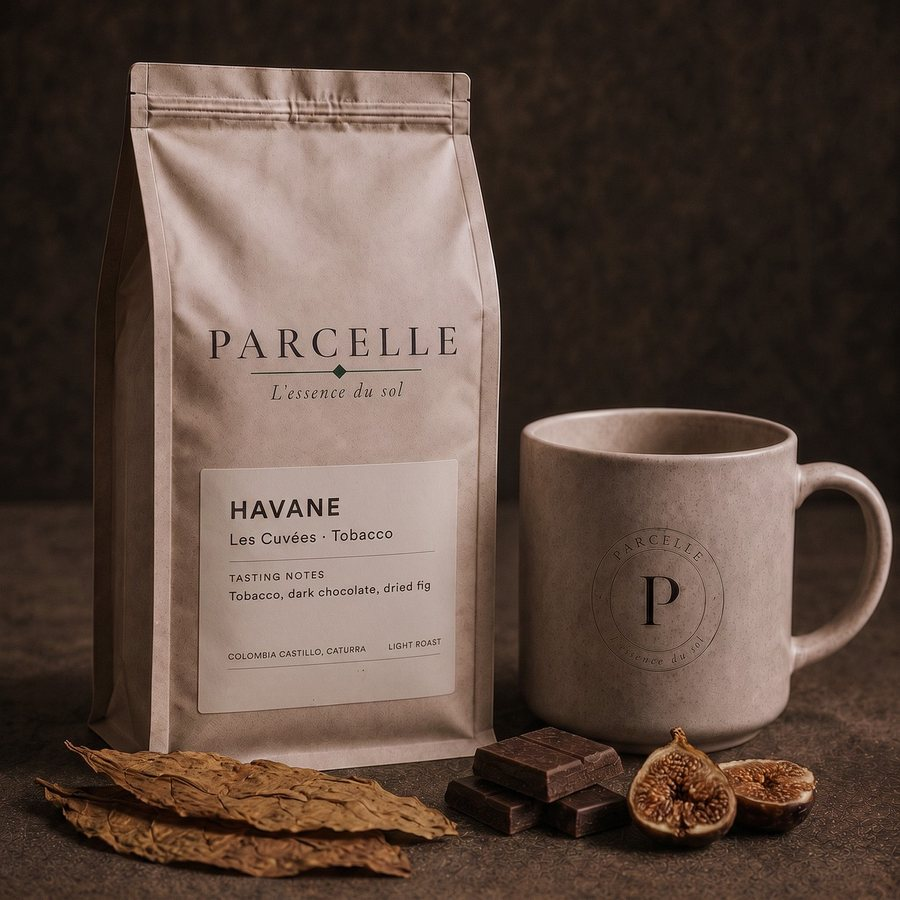
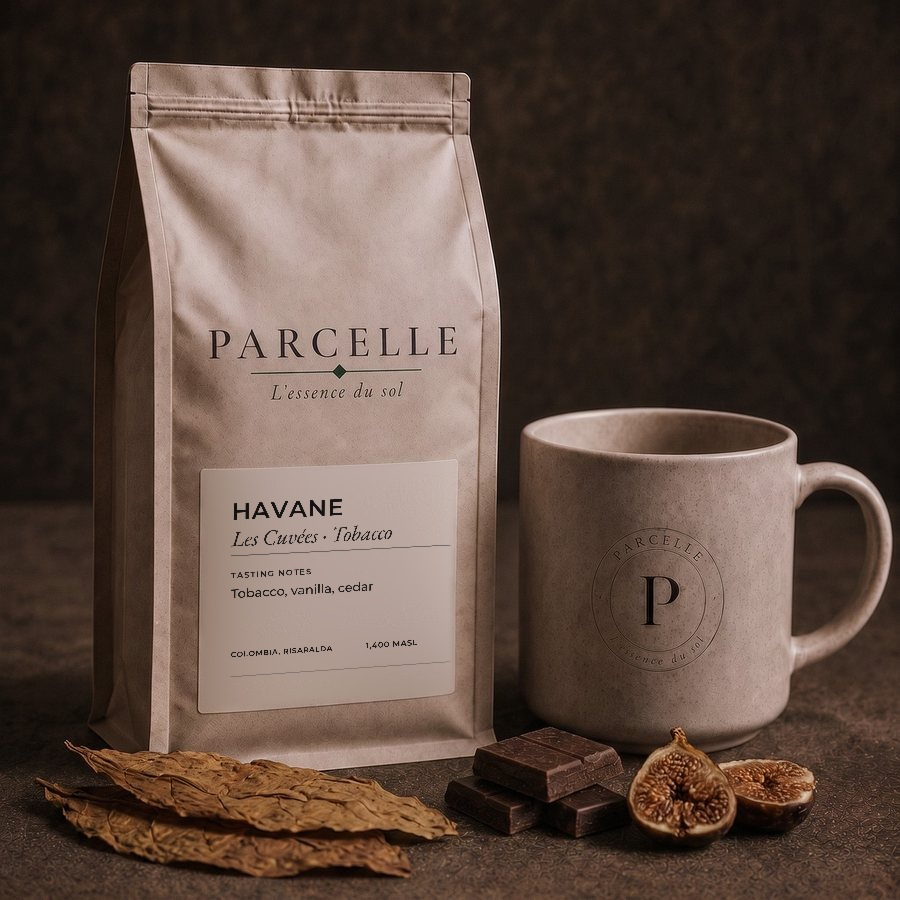
Add files via upload
Havane lot update

Changed region(s): [[0.2489, 0.5289, 0.4356, 0.6844], [0.2489, 0.7156, 0.4667, 0.7467]]

diff --git a/index.html b/index.html
@@ -487,7 +487,7 @@
     <div class="section-head reveal">
       <div class="dd"><span class="line"></span><span class="dot"></span><span class="line"></span></div>
       <h2>Les Cuvées</h2>
-      <p class="intro">Three lots from Huila. Named, not numbered.</p>
+      <p class="intro">Three lots from Colombia. Named, not numbered.</p>
       <p class="cuvees-sub">Each is held far longer in fermentation than a coffee usually is, and each one carries it differently. Made in small quantity, and not made again in the same way twice.</p>
     </div>
 
@@ -513,12 +513,12 @@
         </div>
       </article>
       <article class="blend-card" id="cuvee-tobacco">
-        <div class="blend-visual photo"><img src="cuvee-tobacco.jpeg" alt="Parcelle Havane, Les Cuvées" loading="lazy" decoding="async"></div>
+        <div class="blend-visual photo"><img src="cuvee-tobacco.jpeg?v=2" alt="Parcelle Havane, Les Cuvées" loading="lazy" decoding="async"></div>
         <div class="blend-body">
           <div class="card-format">Les Cuvées</div>
-          <div class="origin">Colombia, Huila</div>
+          <div class="origin">Colombia, Risaralda · 1,400 masl</div>
           <div class="name">Havane</div>
-          <div class="note">Tobacco. Dark chocolate. Dried fig.</div>
+          <div class="note">Tobacco. Vanilla. Cedar.</div>
           <a class="btn-outline" href="https://wa.me/971507045336?text=Hello%20Parcelle.%20I%20would%20like%20to%20enquire%20about%20Havane%2C%20Les%20Cuv%C3%A9es." target="_blank" rel="noopener">Enquire <span class="arrow">&rarr;</span></a>
         </div>
       </article>
